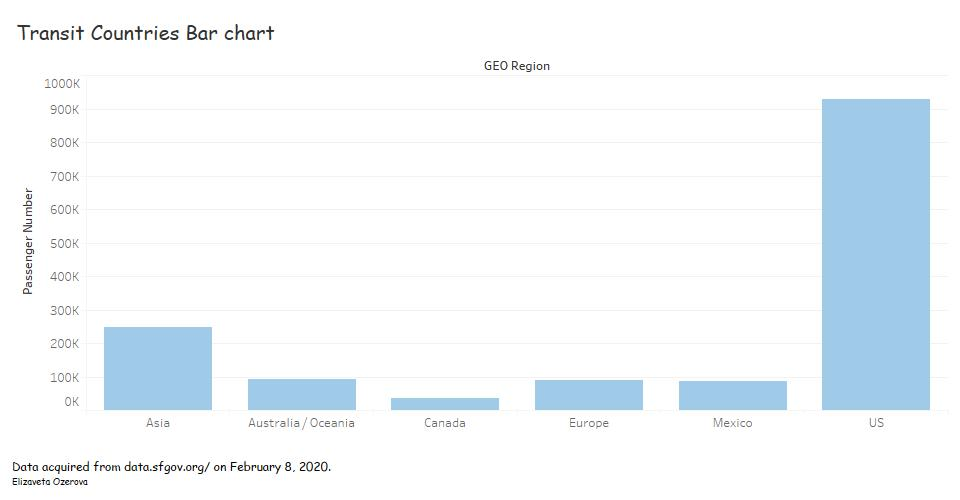
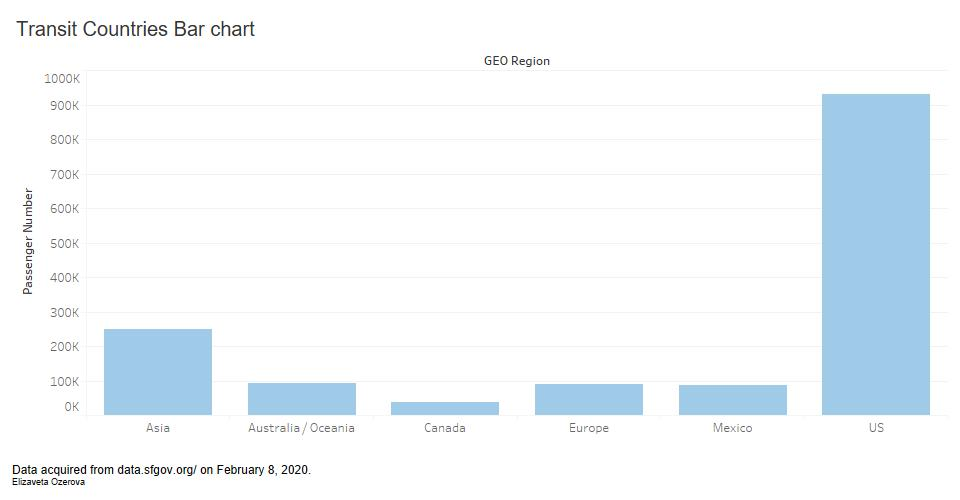
Some writeups

diff --git a/areachart.html b/areachart.html
@@ -82,44 +82,36 @@
       <!-- Begin page content -->
       <div class="content">
         <h1 class="title">
-          <!-- TODO: Change page title -->
-          Page Title
+          AreaChart Prototype
         </h1>
         <p class="subtitle">
-          <!-- TODO: Change page subtitle -->
-          Page Subtitle
+          Purpose
         </p>
 
-        <p>This would be an excellent place to describe what this page is for, what to find in different sections, describe any motivation or theme behind your visualizations, and so on.</p>
-
-        <p>You should not use this template unless you intend to customize it. Make it your own. Keep in mind this simple template is over 300 lines! You can see other examples of websites using Bulma at their showcase: <a href="https://bulma.io/expo/">bulma.io/expo/</a>.</p>
+        <p>The purpose of this prototype is to visualize the trends of passenger amount of different countries.</p>
 
         <h3 id="wrangling">Wrangling</h3>
 
-        <p>Perhaps you had to do some data wrangling to the original dataset to prepare it for visualization. This would be a great place to discuss some of that wrangling.
-
+        <p>The data was filtered in Tableau. US was excluded from GEO Regions analysis. (It has more passengers data, so I excluded it to get only other countries plot.)
+        <p>Activity periods were grouped by year in Tableau.
 
         <h3 id="prototype">Tableau Prototype</h3>
 
         <img src="areachart.jpg" alt="AreaChart Prototype">
 
-        <p>Prototype description!!
+        <script type='text/javascript' src='https://us-west-2b.online.tableau.com/javascripts/api/viz_v1.js'></script><div class='tableauPlaceholder' style='width: 960px; height: 527px;'><object class='tableauViz' width='960' height='527' style='display:none;'><param name='host_url' value='https%3A%2F%2Fus-west-2b.online.tableau.com%2F' /> <param name='embed_code_version' value='3' /> <param name='site_root' value='&#47;t&#47;usfcs360spring2020' /><param name='name' value='Homework1&#47;Dashboard3' /><param name='tabs' value='no' /><param name='toolbar' value='yes' /><param name='showAppBanner' value='false' /></object></div>
 
+        <p>Prototype was done using Tableau. The data used: "Passenger Number" (sum for each GEO Region group) (as y scale), "Activity period" in years (as x scale) and "GEO Region" as colors.
 
-        <h3 id="writeups">Writeups</h3>
-
-        <p>How to interpret your visualization, indicating how the data is encoded. For example, “passenger count is encoded by the length of the bar, so longer bars represent higher passenger count.”
-
-        <p>Any per-visualization data wrangling you performed on the original dataset, and how you wrangled the data (e.g. Tableau, Excel, using the website interface). Link to the wrangled data when possible.
-
-        <p>One conclusion you can make about the data using your visualization. The conclusion should ideally be something that a simple statistic could not replace. For example, “airline X has the highest passenger count over this time period” is a simple conclusion that will meet this requirement, but may not earn a plus-level letter grade.
+        <h3 id="analysis">Analysis</h3>
+        <p>From this visualization we can conclude that Asia has the most number of passengers coming to and from this airport. Second place is taken by Europe.</p>
+        <p>We also can notice some trends. For example, there was a rase in passenger amount in 2006 ant the next high increase started from 2014 and got to it's peak at 2018. From 2018 to 2019 we can see a big decrease of passengers.
 
         <h2 id="about">About</h2>
 
         <!-- Profile box -->
         <!-- https://bulma.io/documentation/layout/media-object/ -->
         <article class="media">
-          <!-- TODO: Replace with profile photo -->
           <figure class="media-left">
             <p class="image is-128x128"><img class="is-rounded" src="profile.png"></p>
           </figure>

diff --git a/codeBarChart.html b/codeBarChart.html
@@ -18,7 +18,7 @@
 
   <script>
     // location of data file
-		//let csv = '//barchartdata.csv';
+		let csv = 'barchartdata.csv';
 
     // configuration of svg/plot area
 		let config = {
@@ -46,7 +46,7 @@
     svg.attr('height', config.svg.height);
 
     //get data
-    d3.csv("barchartdata.csv", convertRow).then(buildBars)
+    d3.csv(csv, convertRow).then(buildBars)
 
     // helper method to make translating easier
 		function translate(x, y) {
@@ -55,7 +55,6 @@
 
     // function to convert each row
     // we need only two columns for bar chart
-		// https://github.com/d3/d3-fetch/blob/master/README.md#csv
 		function convertRow(row, index) {
   		let out = {};
       out.values = []
@@ -72,18 +71,9 @@
         	out.values.num = parseInt(row[col]);
         	break;
         }
-
   	}
   		return out;
 		}
-
-
-    function mergeNames (arr) {
-    	return _.chain(arr).groupBy('region').mapValues(function (v) {
-        	return _.chain(v).pluck('num').flattenDeep();
-    	}).value();
-		}
-
     function buildBars(data) {
       let svg = d3.select("body").select("svg");
       console.assert(svg.size() == 1);
@@ -95,8 +85,6 @@
   			r[o.region].num += +o.num;
   			return r;
 			},{}));
-
-
 
   		let countMax = d3.max(merged);
 
@@ -111,7 +99,7 @@
     	top:    15,
    	 	right:  15,
     	bottom: 30,
-  	  left:  90
+  	  left:  85
   		};
 
       // now we can calculate how much space we have to plot
@@ -155,7 +143,7 @@
       let bars = plot.selectAll("rect")
    			.data(pairs)
 
-      //grid lines
+      //grid lines before bars
    		var gridlines = d3.axisLeft()
                      	.tickFormat("")
                      	.tickSize(-plotWidth)
@@ -163,22 +151,23 @@
 
    		svg.append("g")
       	.attr("class", "grid")
-      	.attr("transform", "translate(" + margin.left + "," + margin.top + ")")
+      	.attr("transform", translate(margin.left,margin.top))
       	.call(gridlines);
 
+        //bars
   		svg.selectAll(".bar")
       	.data(pairs)
       	.enter().append("rect")
       	.attr("class", "bar")
-      	.attr("x", function(d) { return regionScale(d.region)+90; })
+      	.attr("x", function(d) { return regionScale(d.region)+88; })
       	.attr("width", regionScale.bandwidth())
-      	.attr("y", function(d) { return countScale(d.num)+14; })
+      	.attr("y", function(d) { return countScale(d.num)+15; })
       	.attr("height", function(d) { return plotHeight - countScale(d.num); });
 
         // text label for the y axis
       plot.append("text")
         .attr("transform", "rotate(-90)")
-        .attr("y", 5 - margin.left)
+        .attr("y", 10 - margin.left)
         .attr("x",0 - (plotHeight / 2))
         .attr("dy", "1em")
         .style("text-anchor", "middle")

diff --git a/barchart.html b/barchart.html
@@ -104,7 +104,7 @@
 
         <h3 id="visualizations">Visualization</h2>
 
-        <iframe src="./codeBarChart.html" seamless width = "1000px" height = "650px"></iframe>
+        <iframe src="./codeBarChart.html" seamless width = "1000px" height = "620px"></iframe>
 
         <p> The JavaScript code for this visualization can be found <a href="https://github.com/usf-cs360-spring2020/homework1-BettyRain/blob/gh-pages/codeBarChart.html">here</a>.
 
@@ -112,7 +112,7 @@
 
         <h3 id="analysis">Analysis</h3>
         <p>Passenger count is encoded by the length of the bar, so longer bars represent higher passenger count. GEO region is encoded by the bar position, so each bar is responsible for a particular region.
-        <p>From this bar chart we can see that US has the most number of transit places, that we can count as obvious because in US airport there are a lot of domestic flights going thru one state to another. The more interesting bar is the next largest bar. It shows that the most international flights (not US anymore) are using Asia as a transit point. There are multiple conclusions can be done from that. Firslty, there are a lot of Asian passengers coming to US and back. Secondoly, US citinzens are flying to Asia. There are less people flying to "right" hemisphere, because there is no Asia transit.
+        <p>From this bar chart we can see that US has the most number of transit places, that we can count as obvious because in US airport there are a lot of domestic flights going thru one state to another. The more interesting bar is the next largest bar. It shows that the most international flights (not US anymore) are using Asia as a transit point. There are multiple conclusions can be done from that. Firslty, there are a lot of Asian passengers coming to US and back. Secondoly, US citinzens are flying to Asia. We can also make the conclusion that there are less people flying to "right" hemisphere, because there is no Asia transit.
 
         <h2 id="about">About</h2>
 

diff --git a/style.css b/style.css
@@ -4,9 +4,9 @@
  */
 
 body, textarea {
-  font-family: 'Comic Sans MS', sans-serif;
+  font-family: 'Sans-Serif', sans-serif;
   font-weight: 300;
-  font-size: 11pt;
+  font-size: 10pt;
 }
 
 .grid line {
@@ -29,7 +29,7 @@ body {
 
 textarea {
   /* position the textarea on top of the svg */
-  font-family: 'Comic Sans MS', sans-serif;
+  font-family: 'Sans-Serif', sans-serif;
   position: fixed;
   top: 5px;
   left: 5px;
@@ -45,14 +45,14 @@ textarea {
 }
 
 textarea, svg {
-  font-family: 'Comic Sans MS', sans-serif;
+  font-family: 'Sans-Serif', sans-serif;
   border: 1px solid gainsboro;
   border-radius: 10px;
 }
 
 svg {
   /* bl.ocks.org defaults to 960px by 500px */
-  font-family: 'Comic Sans MS', sans-serif;
+  font-family: 'Sans-Serif', sans-serif;
   width: 950px;
   height: 490px;
 
@@ -62,20 +62,20 @@ svg {
 /* svg elements are styled differently from html elements */
 
 rect.bar {
-  font-family: 'Comic Sans MS', sans-serif;
+  font-family: 'Sans-Serif', sans-serif;
   stroke: none;
   fill: #83CAD8;
 }
 
 #x-axis text,
 #y-axis text {
-  font-family: 'Comic Sans MS', sans-serif;
+  font-family: 'Sans-Serif', sans-serif;
   font-size: 9pt;
   fill: #888888;
 }
 
 #x-axis line {
-  font-family: 'Comic Sans MS', sans-serif;
+  font-family: 'Sans-Serif', sans-serif;
   /* tick marks */
   fill: none;
   stroke: none;
@@ -84,7 +84,7 @@ rect.bar {
 #x-axis path,
 #y-axis path,
 #y-axis line {
-  font-family: 'Comic Sans MS', sans-serif;
+  font-family: 'Sans-Serif', sans-serif;
   fill: none;
 
   stroke: #bbbbbb;

diff --git a/linechart.html b/linechart.html
@@ -105,13 +105,11 @@
 
         <div id="vis"></div>
 
-        <h3 id="writeups">Writeups</h3>
+        <h3 id="analysis">Analysis</h3>
 
-        <p>How to interpret your visualization, indicating how the data is encoded. For example, “passenger count is encoded by the length of the bar, so longer bars represent higher passenger count.”
+        <p>Passenger count is encoded as the y line, so higher points on graph represent higher passenger count. Activity period by months is encoded as the x line, so the points location represent the total amount of passengers at the particular month.
 
-        <p>Any per-visualization data wrangling you performed on the original dataset, and how you wrangled the data (e.g. Tableau, Excel, using the website interface). Link to the wrangled data when possible.
-
-        <p>One conclusion you can make about the data using your visualization. The conclusion should ideally be something that a simple statistic could not replace. For example, “airline X has the highest passenger count over this time period” is a simple conclusion that will meet this requirement, but may not earn a plus-level letter grade.
+        <p>Using this visualization we can conclude that airports and planes have more passengers during in summer time and big drop in February. This data may help airport's administration to correct their plans on employees.
 
         <h2 id="about">About</h2>
 
